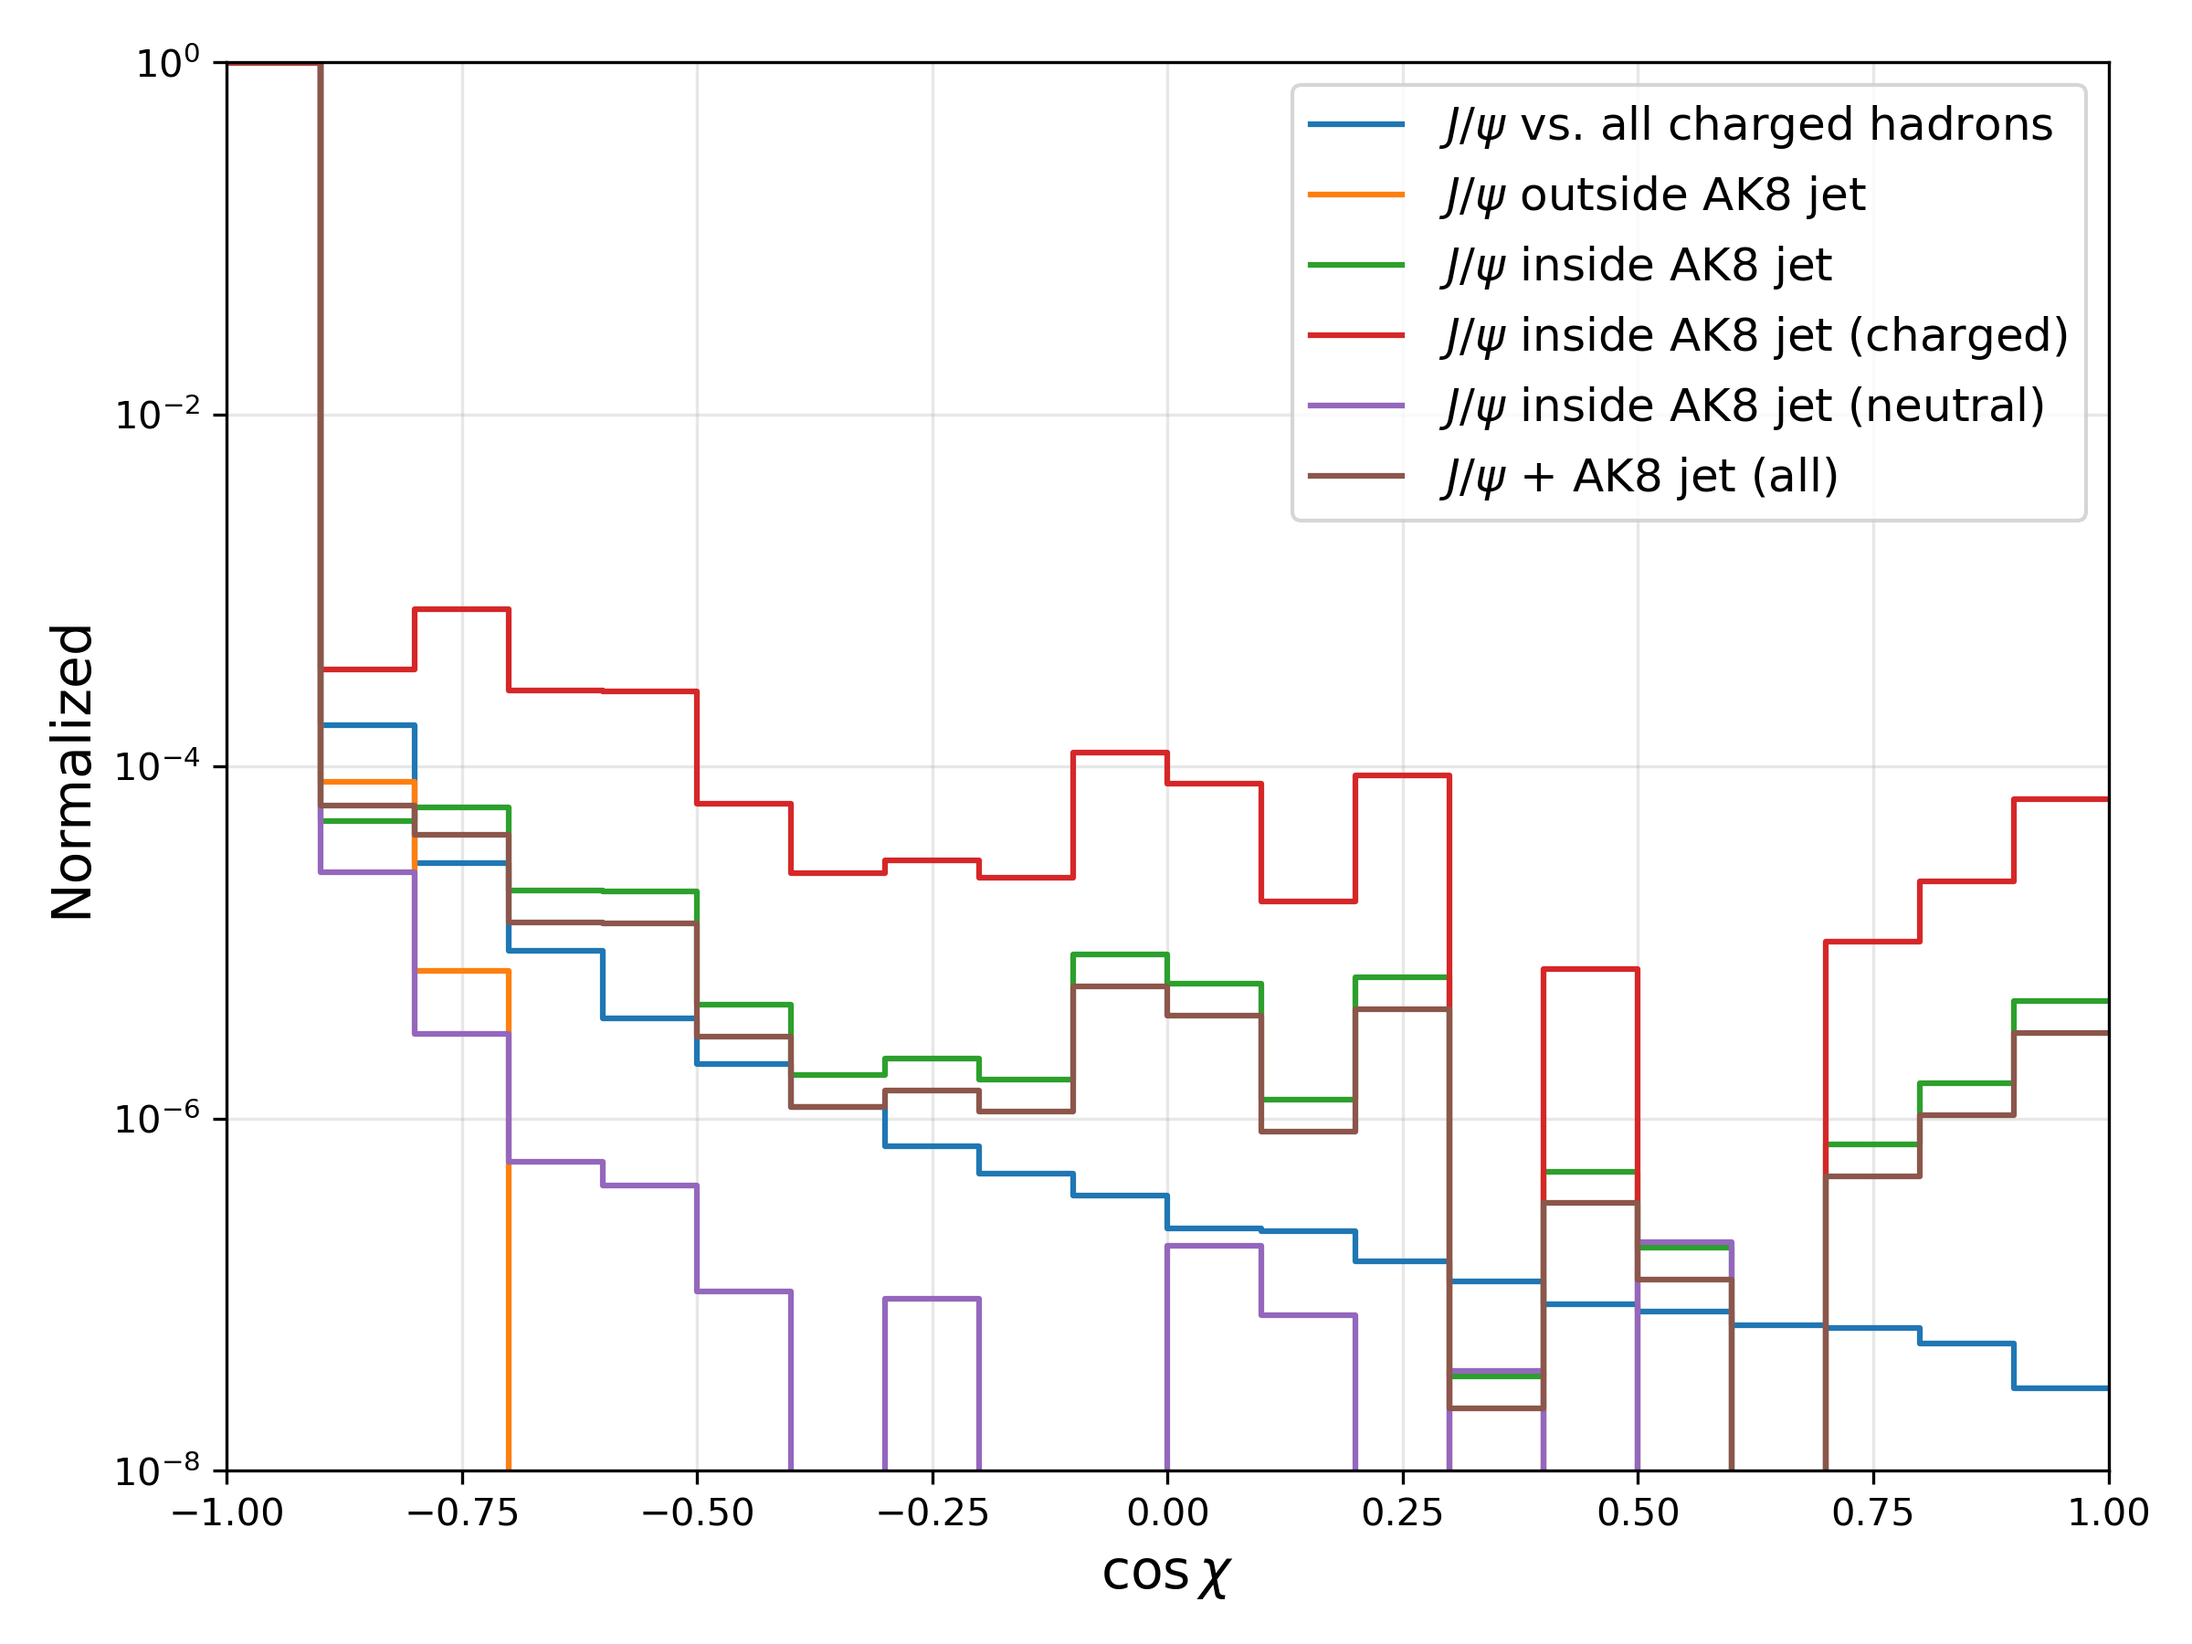
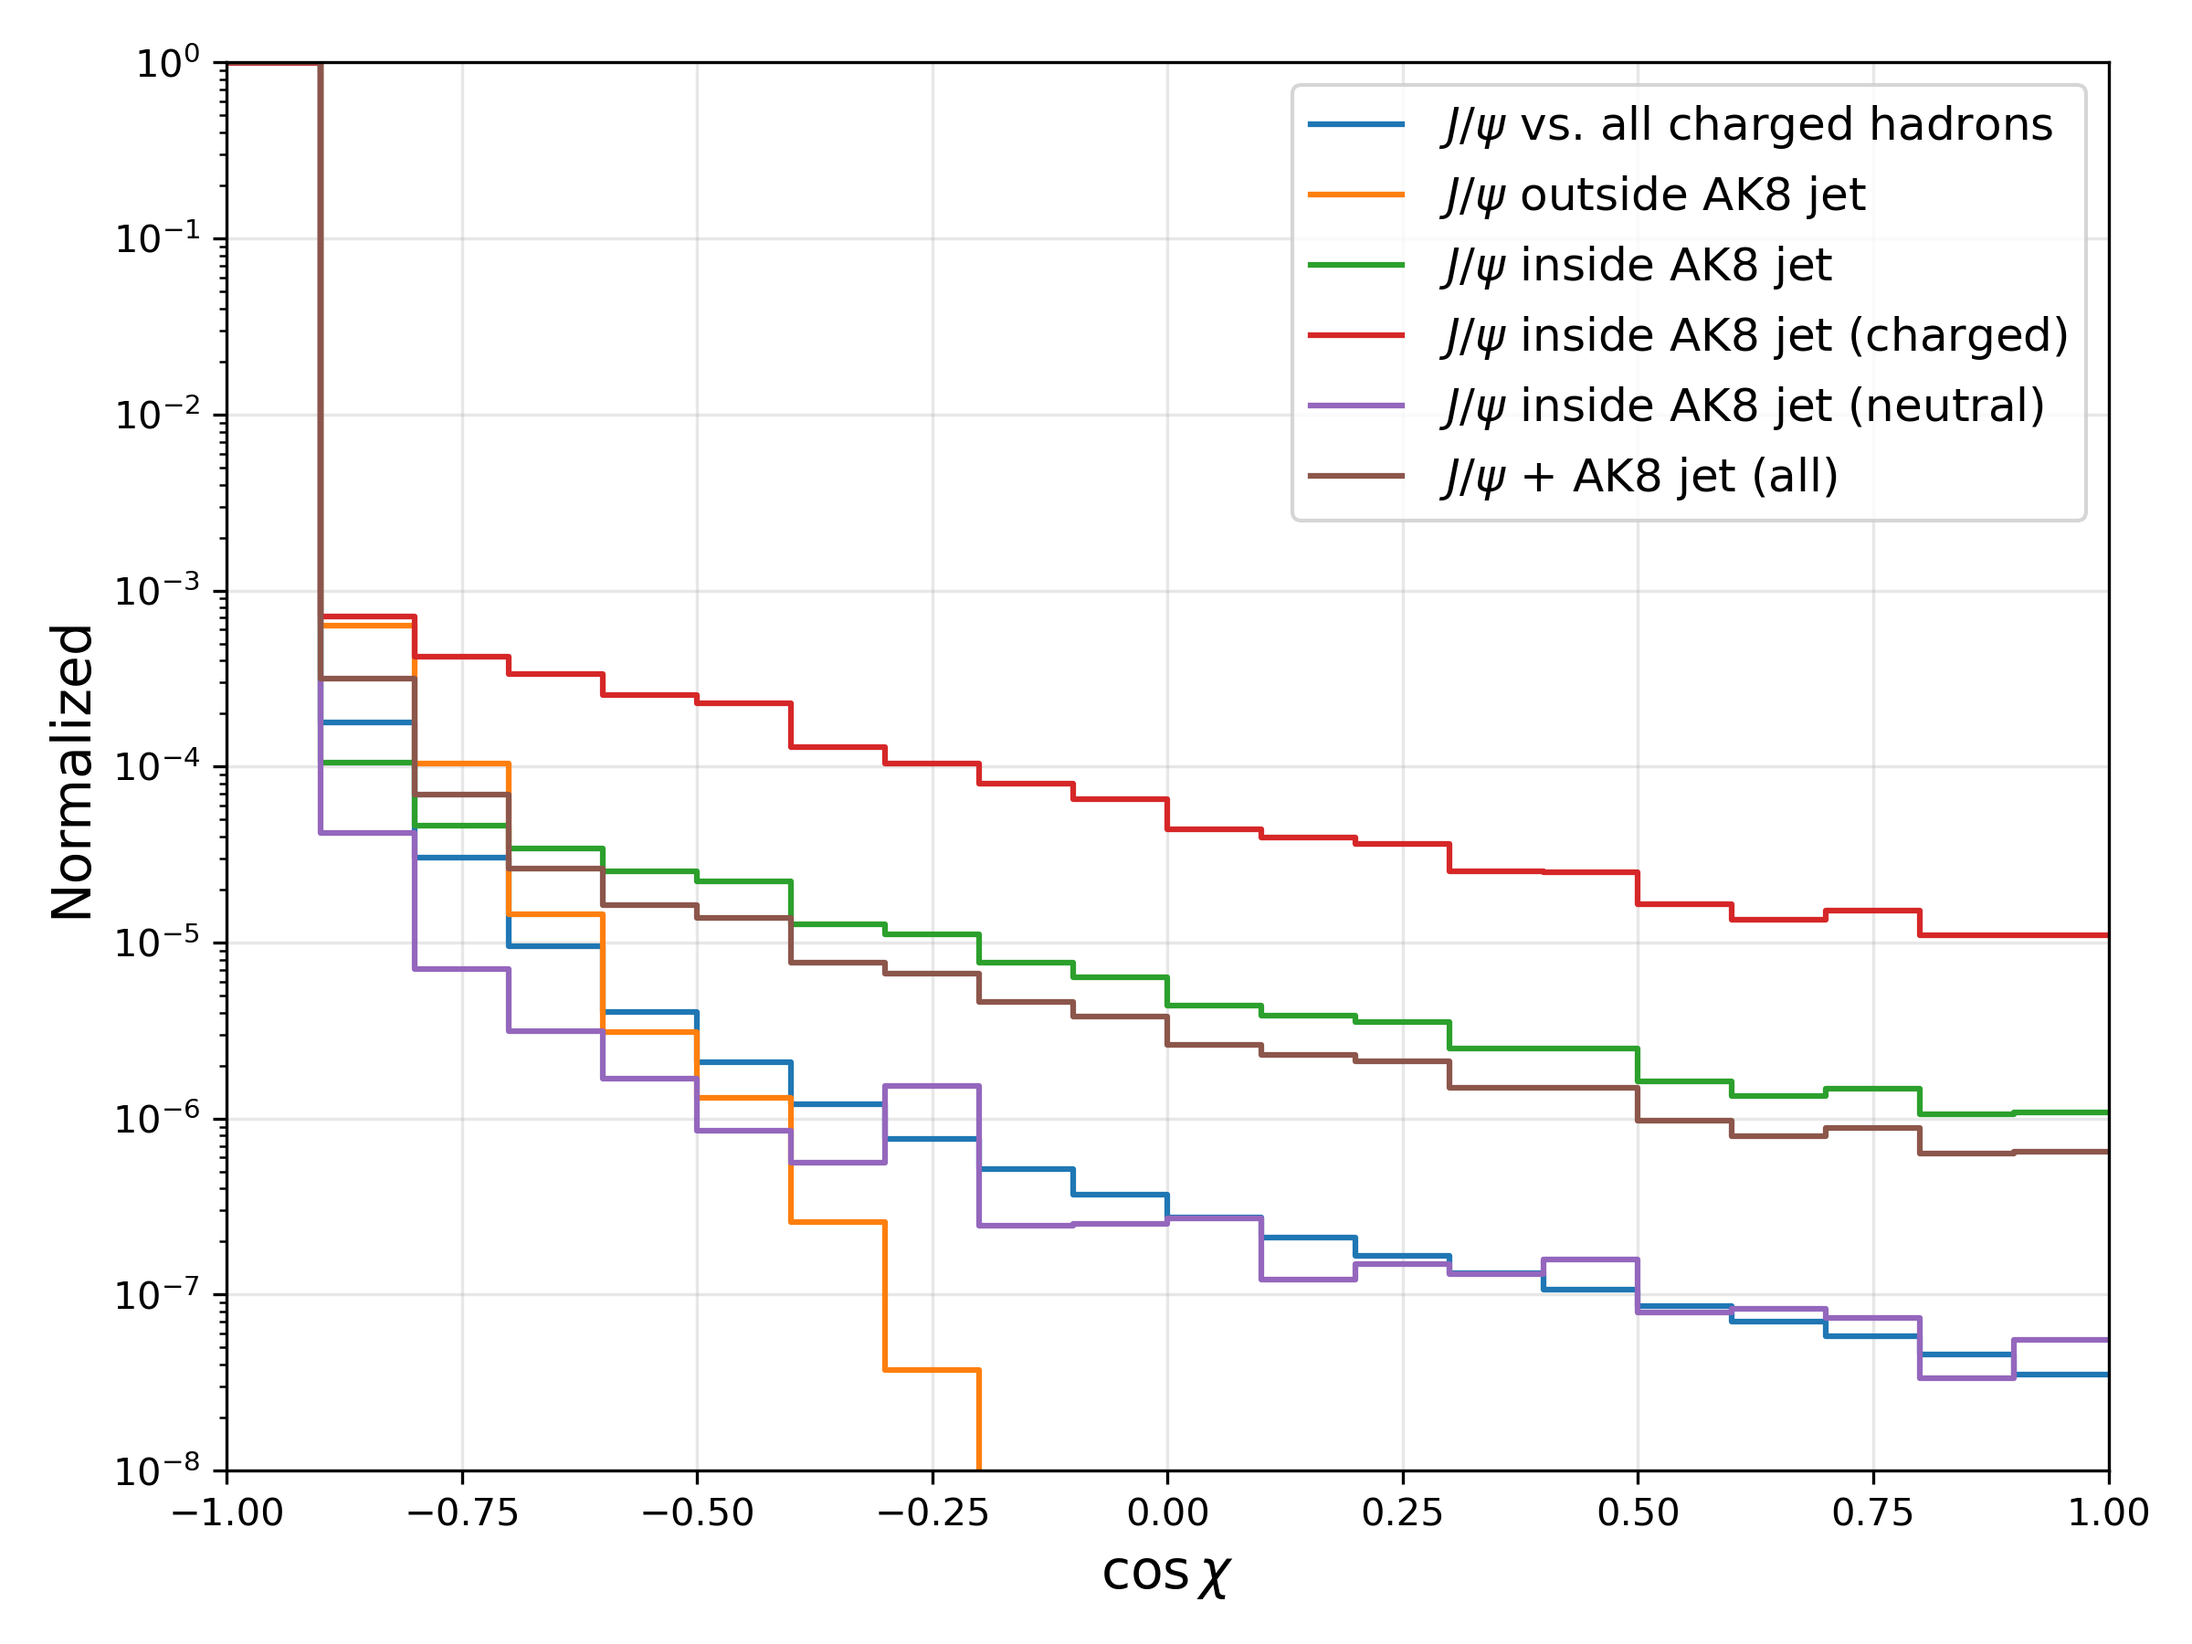
update

diff --git a/test/runMiniAnalyzer_cfg_test.py b/test/runMiniAnalyzer_cfg_test.py
@@ -22,13 +22,13 @@ process.Timing = cms.Service("Timing",
 
 process.source = cms.Source("PoolSource",
     fileNames = cms.untracked.vstring(
-        #'root://cms-xrd-global.cern.ch//store/mc/RunIII2024Summer24MiniAODv6/QCD_Bin-PT-600to800_TuneCP5_13p6TeV_pythia8/MINIAODSIM/150X_mcRun3_2024_realistic_v2-v2/120000/001ed309-7cae-4607-9912-42b5f774b870.root'
-         'root://cms-xrd-global.cern.ch//store/mc/Run3Winter23MiniAOD/JPsiTo2Mu_Pt-0To100_pythia8-gun/MINIAODSIM/GTv3Digi_GTv3_MiniGTv3_126X_mcRun3_2023_forPU65_v3-v2/2550000/03f2d74a-7822-44fb-a914-dec5eaaa7b3e.root'    
+        'root://cms-xrd-global.cern.ch//store/mc/RunIII2024Summer24MiniAODv6/QCD_Bin-PT-600to800_TuneCP5_13p6TeV_pythia8/MINIAODSIM/150X_mcRun3_2024_realistic_v2-v2/120000/001ed309-7cae-4607-9912-42b5f774b870.root'
+        # 'root://cms-xrd-global.cern.ch//store/mc/Run3Winter23MiniAOD/JPsiTo2Mu_Pt-0To100_pythia8-gun/MINIAODSIM/GTv3Digi_GTv3_MiniGTv3_126X_mcRun3_2023_forPU65_v3-v2/2550000/03f2d74a-7822-44fb-a914-dec5eaaa7b3e.root'    
     )
 )
 
 process.TFileService = cms.Service("TFileService",
-                                   fileName=cms.string("./result/jpsi_InJet_50000ev.root"))
+                                   fileName=cms.string("./result/jpsi_Jet_50000ev_QCD.root"))
 
 # ------------------------------
 # Muon cleaning and selection

diff --git a/QEC/plot/draw.py b/QEC/plot/draw.py
@@ -2,7 +2,7 @@ import uproot
 import numpy as np
 import matplotlib.pyplot as plt
 
-file = uproot.open("../result/jpsi_InJet_50000ev.root")
+file = uproot.open("../result/jpsi_Jet_50000ev_QCD.root")
 
 # Read histograms from your output
 h_qec_charged         = file["qec_all_charged"]
@@ -58,7 +58,7 @@ plt.grid(alpha=0.3)
 plt.legend(fontsize=12)
 plt.tight_layout()
 
-plt.savefig("coschi.png", dpi=300)
+plt.savefig("coschi_qcd.png", dpi=300)
 plt.close()
 
-print("Finished drawing coschi.png")
+print("Finished drawing coschi_qcd.png")
